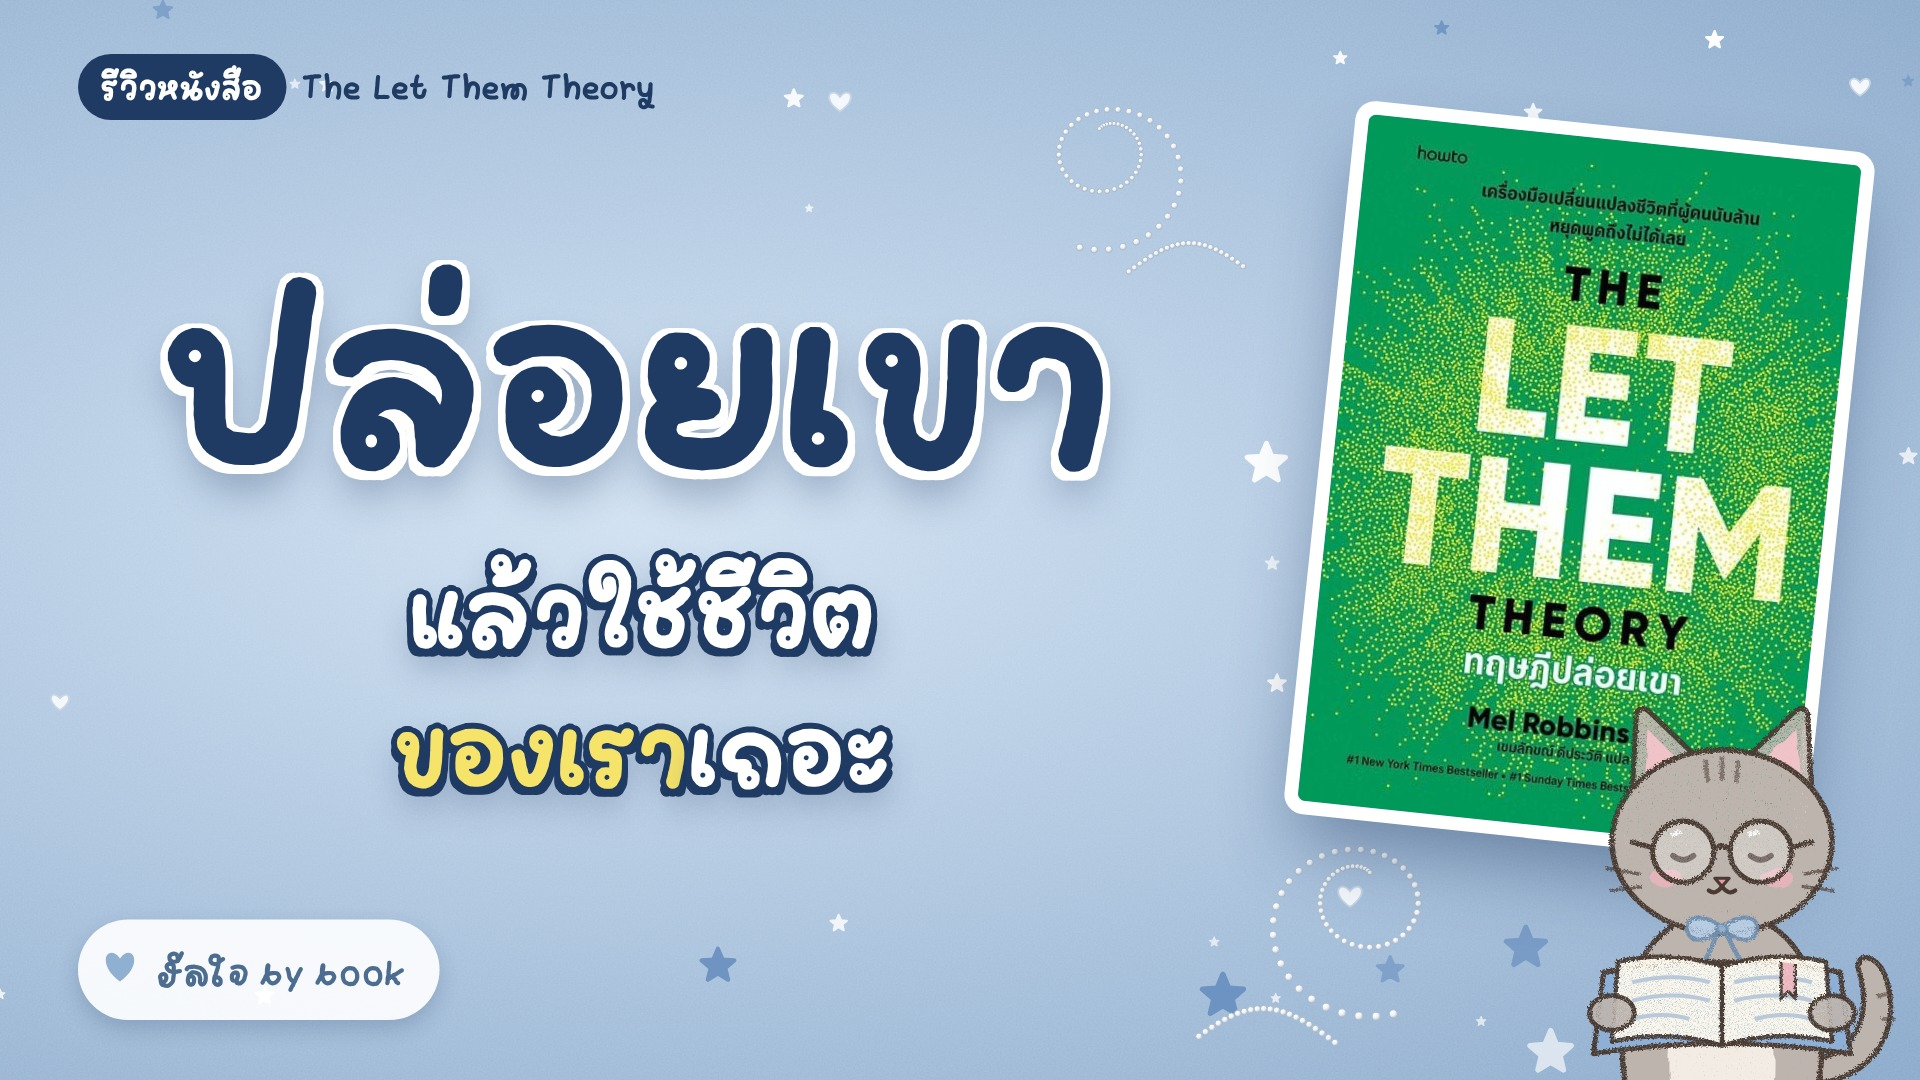
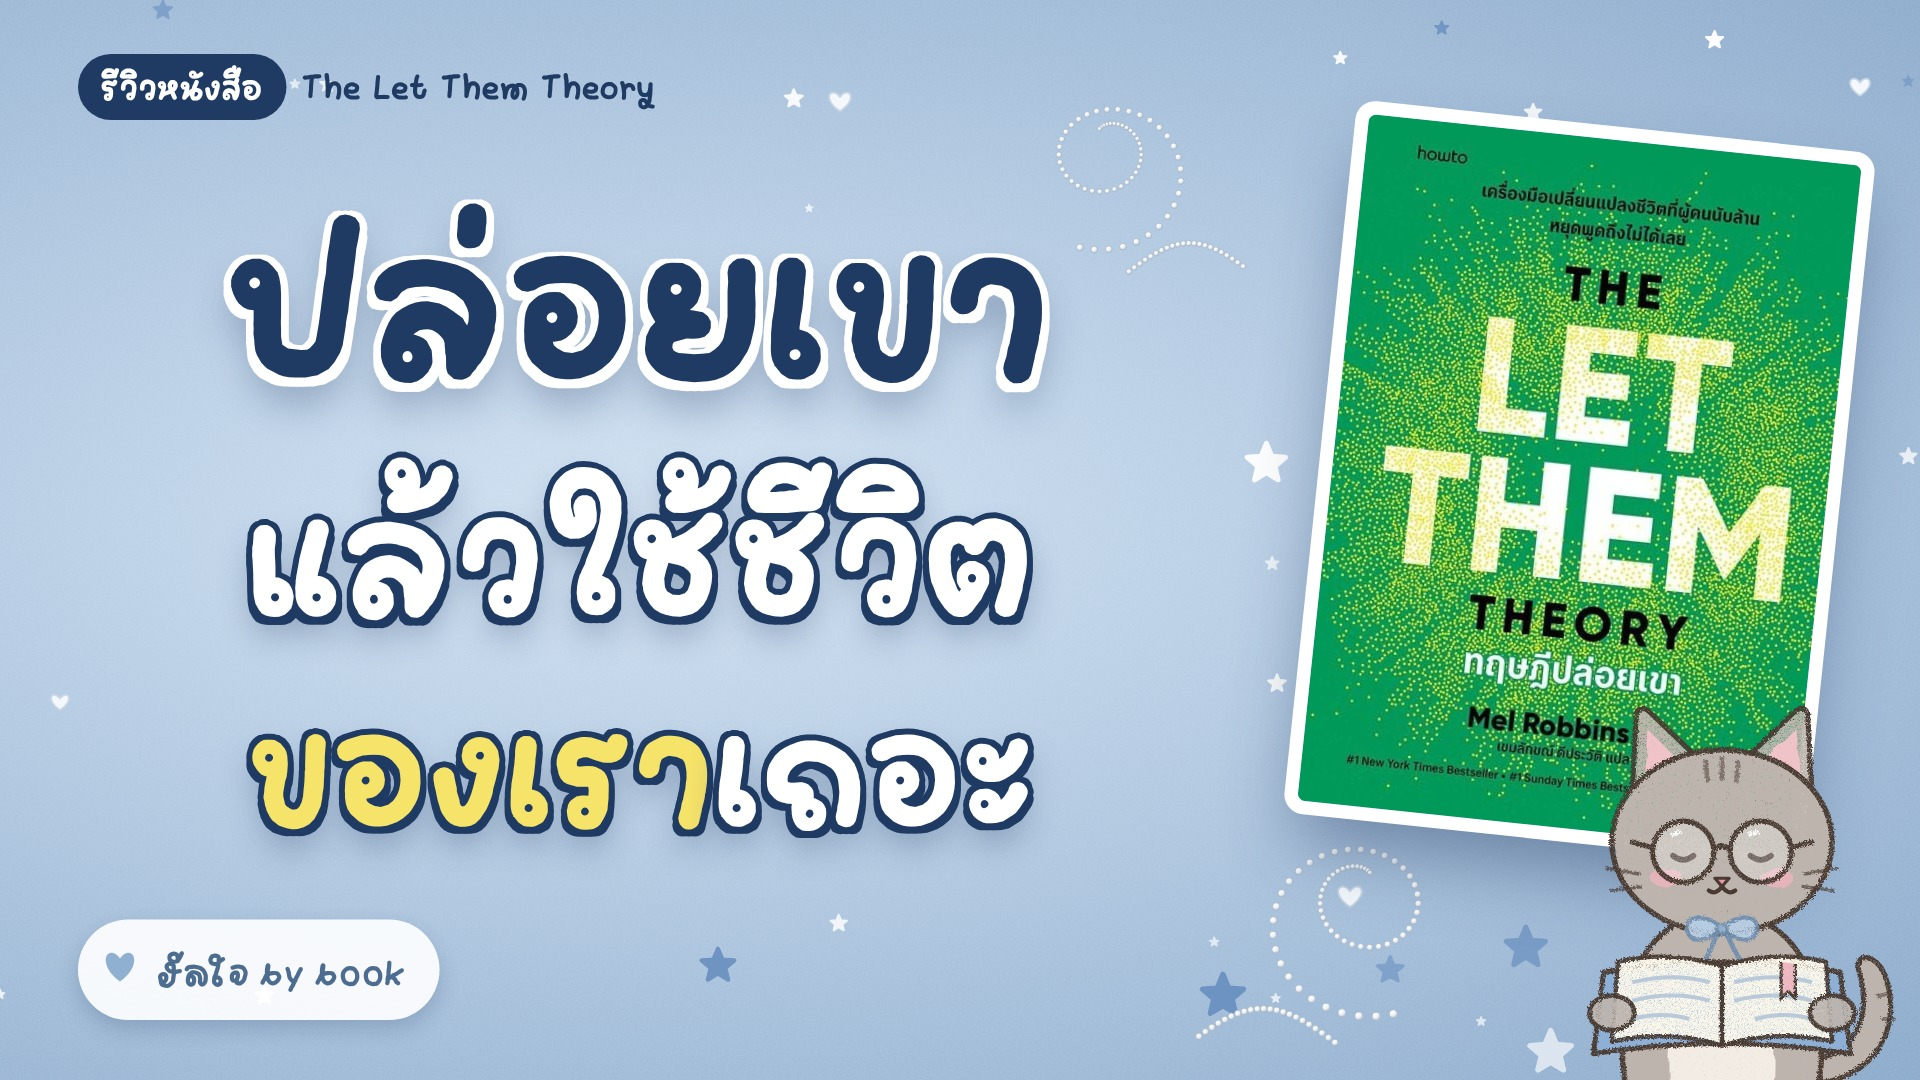
Fit thumbnail v4 subline width to headline
Claude-Session: https://claude.ai/code/session_01QzVkrWDkQd3GqzKpuuwkHN

Changed region(s): [[0.0625, 0.1833, 0.5938, 0.6111], [0.125, 0.6722, 0.5625, 0.7944]]

diff --git a/heal-intro/thumbnails/let-them-v4.html b/heal-intro/thumbnails/let-them-v4.html
@@ -9,19 +9,20 @@ svg.full{position:absolute;inset:0}
 #kicker{position:absolute;left:52px;top:38px;font-family:sky;font-size:28px;color:#1f3b63}
 #kicker b{font-family:skybold;font-weight:400;background:#1f3b63;color:#fff;padding:3px 16px 5px;border-radius:22px;margin-right:10px}
 #txt{position:absolute;left:20px;top:0;width:820px;height:720px;display:flex;flex-direction:column;justify-content:center;align-items:center;text-align:center;padding-bottom:40px;box-sizing:border-box}
-#h1{font-family:skybold;font-size:196px;line-height:1.12;color:#1f3b63;
+#h1{font-family:skybold;font-size:170px;line-height:1.1;display:inline-block;color:#1f3b63;
  text-shadow:0 6px 0 #fff,0 -3px 0 #fff,5px 0 0 #fff,-5px 0 0 #fff,5px 6px 0 #fff,-5px 6px 0 #fff,4px -3px 0 #fff,-4px -3px 0 #fff,0 16px 26px rgba(25,50,90,.35)}
-#h2{font-family:skybold;font-size:80px;line-height:1.15;color:#fff;margin-top:4px;
+#h2{font-family:skybold;font-size:80px;line-height:1.08;color:#fff;margin-top:4px;
  text-shadow:0 5px 0 #1f3b63,4px 0 0 #1f3b63,-4px 0 0 #1f3b63,0 -4px 0 #1f3b63,4px 5px 0 #1f3b63,-4px 5px 0 #1f3b63,3px -3px 0 #1f3b63,-3px -3px 0 #1f3b63,0 12px 22px rgba(25,50,90,.35)}
 #h2 span{color:#f6e36a}
 #book{position:absolute;right:62px;top:92px;width:330px;height:460px;transform:rotate(6deg);border-radius:5px;overflow:hidden;box-shadow:0 0 0 9px #fff,0 26px 50px rgba(25,50,90,.45)}
 #book img{width:100%;height:100%;display:block}
 #brand{position:absolute;left:52px;bottom:40px;display:flex;align-items:center;gap:10px;padding:9px 22px 11px 14px;background:rgba(255,255,255,.9);border-radius:40px;color:#4c6d90;font-family:goodfriend;font-size:28px;box-shadow:0 6px 14px rgba(25,50,90,.2)}
+#h2 .ln{display:block;width:max-content;margin:0 auto}
 </style></head><body><div id="s">
 <svg id="grain" class="full" width="1280" height="720"><filter id="n"><feTurbulence type="fractalNoise" baseFrequency=".85" numOctaves="3" seed="4"/><feColorMatrix values="0 0 0 0 1  0 0 0 0 1  0 0 0 0 1  0 0 0 .9 0"/></filter><rect width="1280" height="720" filter="url(#n)"/></svg>
 <svg id="deco" class="full" width="1280" height="720"><defs><radialGradient id="pg" cx="35%" cy="30%" r="70%"><stop offset="0" stop-color="#fff"/><stop offset=".55" stop-color="#eef2f6"/><stop offset="1" stop-color="#b9c6d4"/></radialGradient></defs></svg>
 <div id="kicker"><b>รีวิวหนังสือ</b>The Let Them Theory</div>
-<div id="txt"><div id="h1">ปล่อยเขา</div><div id="h2">แล้วใช้ชีวิต<br><span>ของเรา</span>เถอะ</div></div>
+<div id="txt"><div id="h1">ปล่อยเขา</div><div id="h2"><div class="ln">แล้วใช้ชีวิต</div><div class="ln"><span>ของเรา</span>เถอะ</div></div></div>
 <div id="book"><img src="let-them-cover.jpg"></div>
 <svg id="cat" width="1280" height="720" style="position:absolute;inset:0;overflow:visible">
 <defs>
@@ -95,5 +96,6 @@ function swirl(cx,cy,sc,flip){for(let i=0;i<60;i++){const u=i/60,a=u*Math.PI*3.4
  for(let i=0;i<22;i++){const u=i/22;el('circle',{cx:cx-flip*(30+u*190)*sc,cy:cy+150*sc-Math.sin(u*3.1)*45*sc,r:4.4*sc,fill:'url(#pg)',stroke:'#a9b9ca','stroke-width':.6})}}
 swirl(905,620,.5,1);swirl(740,118,.42,-1);
 function heart(x,y,s){el('path',{d:`M${x},${y+s*.35} C${x-s*1.1},${y-s*.4} ${x-s*.45},${y-s*1.05} ${x},${y-s*.45} C${x+s*.45},${y-s*1.05} ${x+s*1.1},${y-s*.4} ${x},${y+s*.35}Z`,fill:'#f4f8fc',stroke:'#c7d5e4','stroke-width':1.2})}
-heart(560,70,12);heart(900,600,13);heart(40,470,10);heart(1240,60,11);
+heart(560,70,12);
+document.fonts.ready.then(()=>{const W=document.getElementById('h1').getBoundingClientRect().width-24;document.querySelectorAll('#h2 .ln').forEach(l=>{l.style.fontSize=(80*W/l.getBoundingClientRect().width)+'px'});});heart(900,600,13);heart(40,470,10);heart(1240,60,11);
 </script></body></html>
